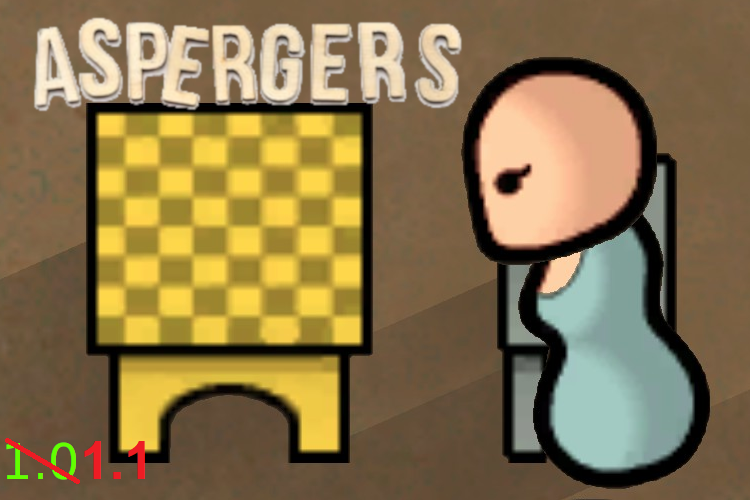
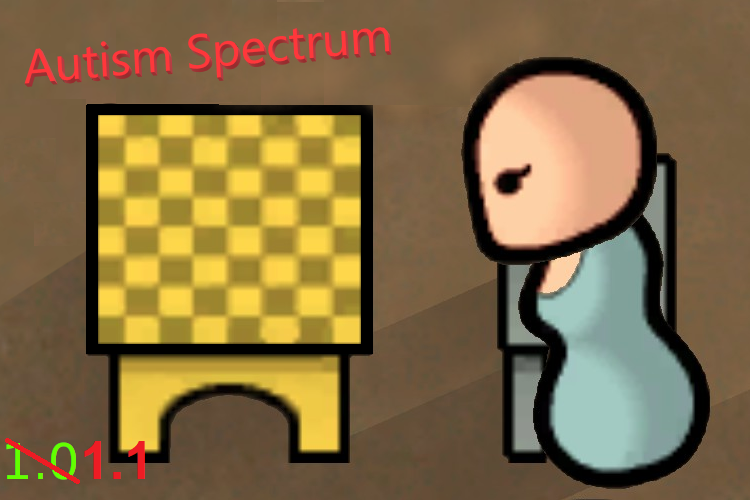
Add files via upload

diff --git a/README.md b/README.md
@@ -4,10 +4,10 @@ The Rimworld aneurotypical mod
 
 <b>Description</b>
 
-Adds Asperger's Syndrome to the Rim. It is an uncommon spectrum of traits which alters colonists stats.
-Ever wondered why your pawn always plays chess by themselves? Why they constantly repeat the same activities? Maybe they have Asperger's.
+Adds Autism to the Rim. It is an uncommon spectrum of traits which alters colonists stats.
+Ever wondered why your pawn always plays chess by themselves? Why they constantly repeat the same activities? Maybe they have Autism.
 
-This mod adds the trait "Asperger's Syndrome" with stats:
+This mod adds the trait "Autism" with stats:
 
     -socialFightChanceFactor muliplied by 2
     -PsychicSensitivity Reduced by 100%
